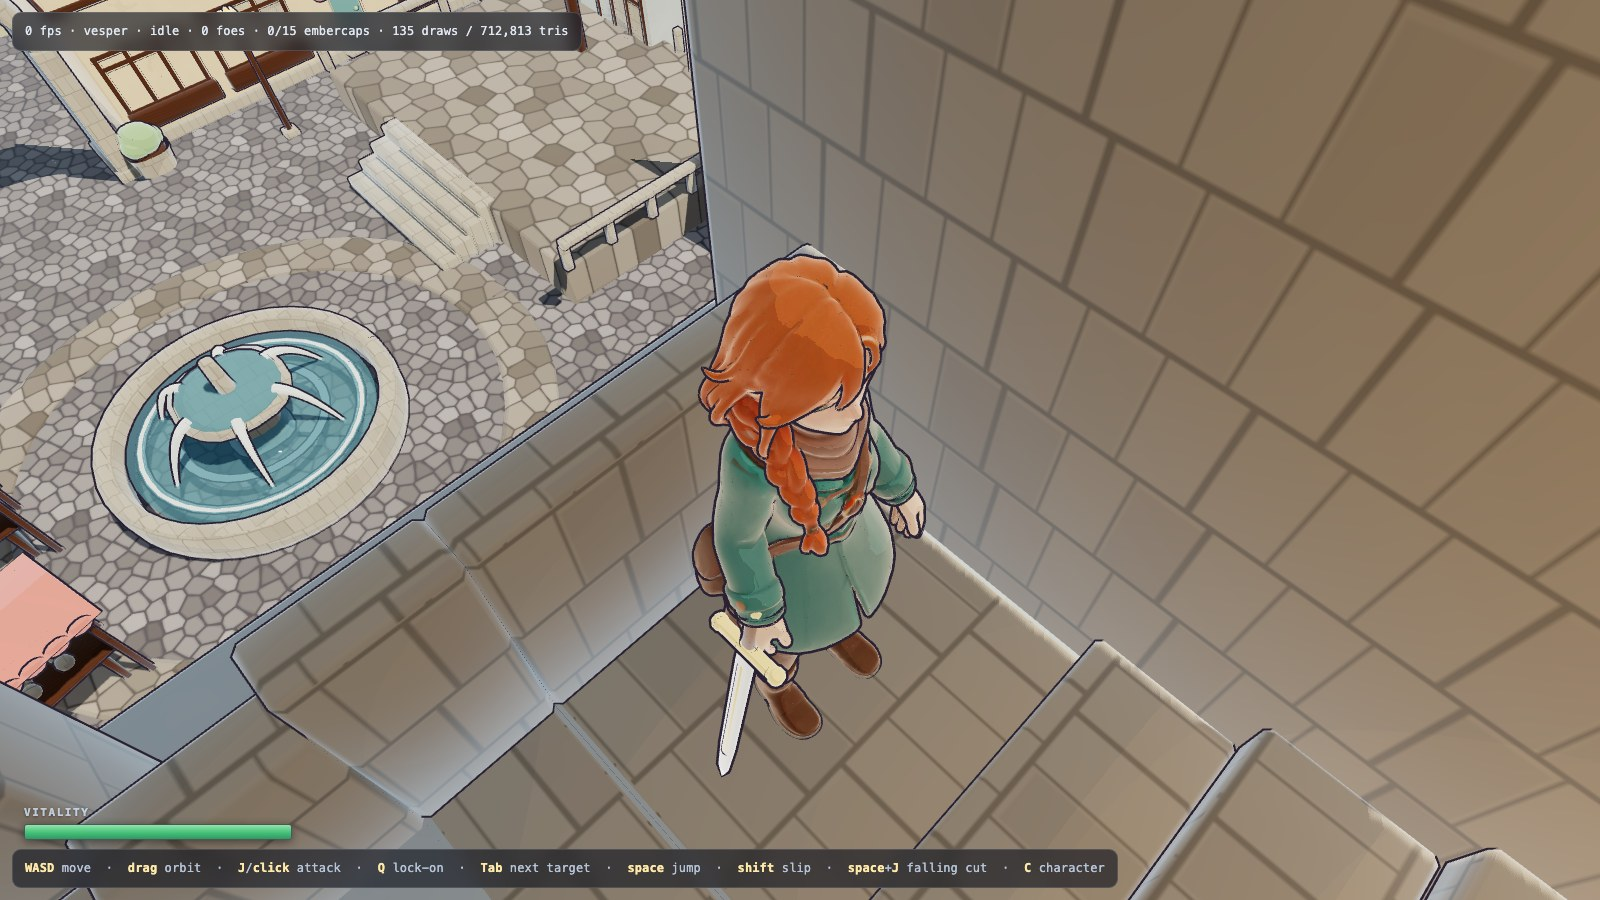
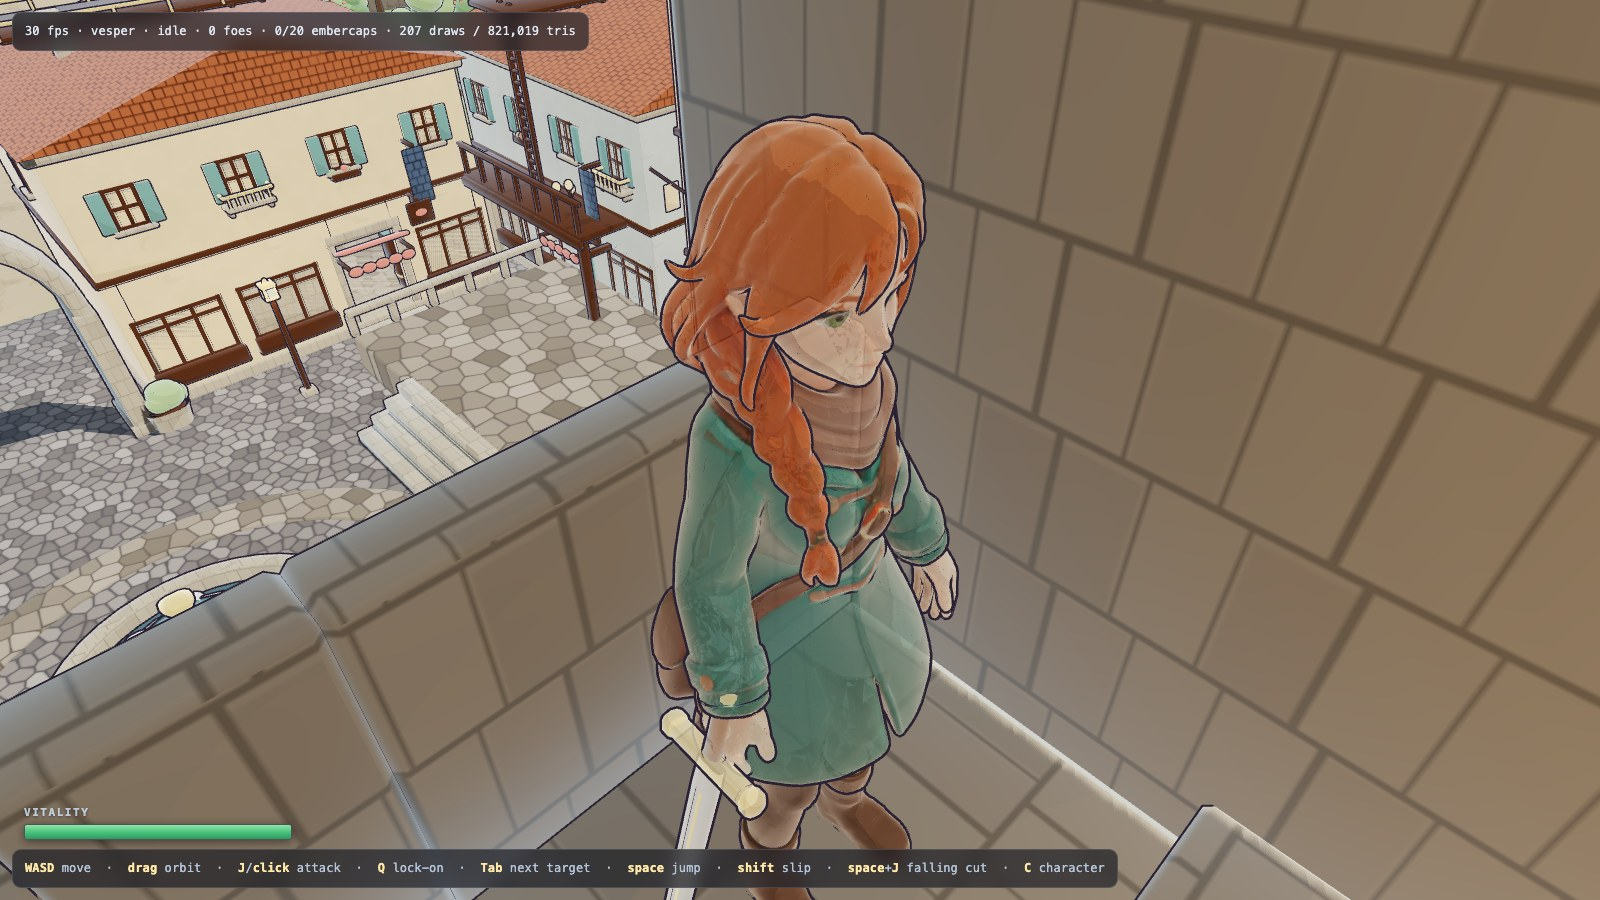
The indoor camera was lurching by metres, not sitting too close
A player's complaint: "the camera experience is pretty rough in indoor
spaces". My first instinct was that the rooms are too small and the boom
too short. Measured, that was wrong, and the measurement is the whole of
this change.

Dragging the camera through one slow revolution and recording the LARGEST
SINGLE-FRAME change in boom length:

                    before   after
    plaza (ref)      0.00     0.00
    belfry           6.30     0.20
    shop             3.53     0.24
    cellar           2.24     0.30
    tower room       1.21     0.12
    shop corner      1.10     0.30
    tower stair      0.43     0.15

Six metres in one frame. Between 4% and 11% of frames while turning moved
the camera more than a quarter of a metre. The mean boom indoors was
already 3-6 m -- the length was mostly fine. What was wrong is that the
solve returns a distance for THIS frame and it was applied as-is, so the
instant a boom stopped hitting something the camera teleported out to
full extension, and the instant it started again it snapped home.

Three fixes, in the order the measurements asked for them:

  1. SHORTEN AT ONCE, LENGTHEN SLOWLY. Shortening has to stay instant or
     the boom spends those frames inside a wall; lengthening has nothing
     to collide with on the way out. That alone took the cellar from 2.24
     to 0.30 and the shop from 3.53 to 1.36.

  2. EVERY INTERIOR GETS A CAMERA VOLUME. The tower's stairwell has had
[…]

diff --git a/public/js/main.js b/public/js/main.js
@@ -1033,17 +1033,29 @@ function groundAt(x, z, fromY) {
   return hit ? hit.point.y : null;
 }
 
-/** The open shaft the point is inside, or null. */
-function shaftAt(x, y, z) {
+/** The interior volume the point is inside, with how far in it is (0..1).
+ *
+ * The blend used to be VERTICAL ONLY, which suited a twenty-metre stairwell and
+ * nothing else: a room is 3 m tall and 9 m wide, so its transition happens as
+ * you walk THROUGH THE DOOR -- sideways. Blending on the nearest face in any
+ * axis handles both.
+ *
+ * `pad` is per-volume because a stairwell wants the player counted while she is
+ * on the stair AROUND the well, and a room does not: there, the box is exactly
+ * where she is.
+ */
+function volumeAt(x, y, z) {
+  let best = null;
   for (const s of SHAFTS) {
-    // the blend band reaches a metre past each end, so the test has to as well
-    if (y < s.y0 - 0.05 || y > s.y1 + 1.05) continue;
-    // generous horizontally: she stands on the stair AROUND the well, not in
-    // it, so the test is "is she in this shaft's tower", not "in its void"
-    if (Math.abs(x - s.x) > s.hx + 2.6 || Math.abs(z - s.z) > s.hz + 2.6) continue;
-    return s;
+    const pad = s.pad ?? 0;
+    const m = Math.min(y - s.y0, s.y1 - y,
+                       s.hx + pad - Math.abs(x - s.x),
+                       s.hz + pad - Math.abs(z - s.z));
+    if (m <= 0) continue;
+    const k = Math.min(1, m / 0.8);        // about a stride to cross fully in
+    if (!best || k > best.k) best = { s, k };
   }
-  return null;
+  return best;
 }
 
 /** Try to move by (dx, dz).  Returns true if the hero actually moved. */
@@ -1066,6 +1078,11 @@ function tryMove(dx, dz) {
 // ------------------------------------------------------------------ camera
 
 const cam = { az: Math.PI, polar: 1.22, dist: 5.4, autoDelay: 0 };
+// THE BOOM'S ACTUAL LENGTH, smoothed. See the note where it is applied.
+let camBoom = 5.4;
+// last frame's camera position, for the indoor ease. See where it is used.
+const camPrev = new THREE.Vector3();
+let camPrevOk = false;
 const camTarget = new THREE.Vector3(0, 1.18, 7);
 const camWant = new THREE.Vector3();
 let dragging = false;
@@ -1941,7 +1958,26 @@ const LOCK_POLAR = 1.06;
   // The floor has to be SMALL.  An alley is 1.75 m wide, so a camera shoved
   // sideways has under 0.9 m before it is inside a facade; a 1.1 m minimum put
   // it through the wall and filled the screen with outline colour.
-  const d = Math.max(0.45, Math.min(hitD, groundD) - 0.25);
+  //
+  // SHORTEN AT ONCE, LENGTHEN SLOWLY -- and this is the whole of what made the
+  // camera feel rough indoors.
+  //
+  // The solve above returns a length for THIS frame and it used to be applied
+  // as-is, so the moment a boom stopped hitting something the camera teleported
+  // out to full extension. Measured by dragging the camera through one slow
+  // revolution and recording the largest single-frame change: 0.00 m standing
+  // in the plaza, 2.24 m in the cellar, 3.53 m in the shop, and 6.30 m in the
+  // belfry -- where rotating past a pier hands the ray open sky. Between 4% and
+  // 11% of frames moved the camera more than a quarter of a metre.
+  //
+  // Shortening has to stay instant: a boom that eases INTO its new length is a
+  // boom that spends those frames inside a wall. Lengthening does not -- there
+  // is nothing to collide with on the way out -- so it eases, and the lunge
+  // goes away without the clipping coming back.
+  const want = Math.max(0.45, Math.min(hitD, groundD) - 0.25);
+  camBoom = want < camBoom ? want
+                           : camBoom + (want - camBoom) * Math.min(1, dt * 3.2);
+  const d = camBoom;
   camera.position.copy(camTarget).addScaledVector(camWant, d);
 
   // A STAIRWELL IS THE ONE SHAPE THIS SOLVE CANNOT DO.
@@ -1960,15 +1996,13 @@ const LOCK_POLAR = 1.06;
   // than hunt for air, put the camera in the volume the builder has PROMISED is
   // clear. The boom keeps the length and pitch the player chose; only its
   // horizontal position is confined, so turning the camera still turns it.
-  const shaft = shaftAt(camTarget.x, camTarget.y, camTarget.z);
-  if (shaft) {
-    // BLENDED IN OVER A METRE at each end of the shaft, because the two solves
-    // put the camera in genuinely different places and swapping between them on
-    // one frame is a cut. `k` is how far into the shaft she is.
-    const k = Math.min(1, (camTarget.y - shaft.y0) / 1.0,
-                          (shaft.y1 - camTarget.y) / 1.0);
-    if (k > 0) {
-      _o.copy(camTarget).addScaledVector(camWant, cam.dist);
+  // BLENDED, because the two solves put the camera in genuinely different
+  // places and swapping between them on one frame is a cut.
+  const vol = volumeAt(camTarget.x, camTarget.y, camTarget.z);
+  if (vol) {
+    const shaft = vol.s, k = vol.k;
+    {
+      _o.copy(camTarget).addScaledVector(camWant, Math.max(camBoom, cam.dist * 0.55));
       _o.x = THREE.MathUtils.clamp(_o.x, shaft.x - shaft.hx, shaft.x + shaft.hx);
       _o.z = THREE.MathUtils.clamp(_o.z, shaft.z - shaft.hz, shaft.z + shaft.hz);
       // never below the tread she is standing on, and never so far above it
@@ -1979,7 +2013,21 @@ const LOCK_POLAR = 1.06;
       const horiz = Math.hypot(_o.x - camTarget.x, _o.z - camTarget.z);
       _o.y = THREE.MathUtils.clamp(_o.y, camTarget.y - 0.30,
                                    camTarget.y + 1.15 * horiz + 0.35);
+      // AND UNDER THE VOLUME'S OWN CEILING. `y1` was being used to decide
+      // whether the player is in the volume and then never applied to the
+      // camera, so in the belfry the pitch cap let the boom climb to 23.98 m
+      // against a roof that starts at 22.48 -- the whole frame came back flat
+      // outline colour, twice, and I blamed the corner piers the first time.
+      _o.y = Math.min(_o.y, shaft.y1);
       camera.position.lerp(_o, k);
+      // AND EASE OVER TIME, which is only safe in here. Clamping into a box
+      // makes the camera slide along an edge, and near a CORNER a small turn
+      // moves it fast: measured in the shop's back corner, one frame of
+      // rotation walked it 1.06 m while the middle of the same room managed
+      // 0.42. Outdoors this would be unsafe -- a camera that lags its solve is
+      // a camera inside a wall for those frames -- but the builder has promised
+      // this volume is empty, so there is nothing to lag into.
+      if (camPrevOk) camera.position.lerp(camPrev, Math.exp(-13 * dt) * k);
     }
   }
 
@@ -1996,6 +2044,9 @@ const LOCK_POLAR = 1.06;
   const fade = THREE.MathUtils.clamp(
     (camera.position.distanceTo(camTarget) - 0.75) / 0.85, 0, 1);
   if (cur) for (const m of cur.mats) { m.opacity = fade; m.visible = fade > 0.02; }
+
+  camPrev.copy(camera.position);
+  camPrevOk = true;
 
   const camGround = groundAt(camera.position.x, camera.position.z, camera.position.y);
   if (camGround !== null && camGround <= camTarget.y + 0.6
@@ -2180,6 +2231,8 @@ globalThis.__sim = ({ steps = 60, dt = 1 / 60, held = [], attack: doAttack = fal
   for (const k of held) keys.add(k);
   if (warp) {
     pos.set(warp[0], warp[1], warp[2]);
+    camBoom = cam.dist;          // a teleport is not a camera move: do not ease
+    camPrevOk = false;
     const g = groundAt(pos.x, pos.z, pos.y + 4);
     if (g !== null) pos.y = g;
     vy = 0; grounded = true; landing = false;

diff --git a/tools/arch_lib.py b/tools/arch_lib.py
@@ -29,6 +29,13 @@ ROOM_WALL = 0.34        # wall thickness where a building is hollow
 ROOM_DOOR = 0.85        # half-width of an interior doorway
 ROOM_DOOR_H = 2.45      # its head height above the ground-floor level
 ROOM_FLOOR = 0.32       # interior floor level: the top of the plinth course
+ROOM_PAD = 0.75         # how far outside a room's CAMERA box the player may be
+                        # and still be treated as fully indoors. The box is
+                        # inset from the walls so the camera never touches one,
+                        # which leaves a band where she is in the room and the
+                        # camera is only half-confined -- measured, that band
+                        # cost 1.11 m of single-frame lurch in a shop corner
+                        # while the middle of the same room managed 0.42.
 GROUND_H = 3.45         # ground floor is taller -- shopfronts need the room
 
 
@@ -152,10 +159,16 @@ class Town:
         """
         self.solids.append((cx, cy, hx, hy, math.radians(yaw), top, base))
 
-    def shaft(self, cx, cy, hx, hy, z0, z1):
-        """An open vertical volume the camera can be placed inside. See the
-        note on `self.shafts`."""
-        self.shafts.append((cx, cy, hx, hy, z0, z1))
+    def shaft(self, cx, cy, hx, hy, z0, z1, pad=0.0):
+        """A volume the camera may be placed inside. See the note on
+        `self.shafts`.
+
+        `pad` is how far OUTSIDE the box the player may be and still count as
+        being in this space. A stairwell needs it: the camera belongs in the
+        well down the middle and the player is always on the stair around it.
+        A room does not -- the box IS where the player is.
+        """
+        self.shafts.append((cx, cy, hx, hy, z0, z1, pad))
 
     def platform(self, cx, cy, hx, hy, top):
         """A surface ABOVE the analytic ground that the player can stand on.
@@ -434,6 +447,12 @@ def cellar(t, hx0, hx1, hy0, hy1, floor_z=-3.0, ceil_z=-0.62):
         out.append(box(nm, (cx, cy, 0.26), (ex, ey, 0.30), M["stone"],
                        bevel=0.04, seg=1))
         t.solid(cx, cy, ex, ey, top=0.56)
+
+    # the room is the camera's too: without this the boom snapped 2.24 m in a
+    # single frame as you turned, because the only thing stopping it was a wall
+    t.shaft((rx0 + rx1) / 2, (ry0 + ry1) / 2,
+            (rx1 - rx0) / 2 - 0.5, (ry1 - ry0) / 2 - 0.5,
+            floor_z - 0.2, ceil_z - 0.25, pad=ROOM_PAD)
 
     # what is down here: stores, a lamp, and something worth the trip
     for bx, by in ((rx0 + 0.9, ry0 + 0.9), (rx0 + 1.7, ry0 + 1.0),
@@ -1517,6 +1536,11 @@ def building(t, cx, cy, w, d, storeys=2, yaw=0.0, plaster="plaster_a",
         put(door_x, -(iy + d / 2) / 2, ROOM_DOOR, th / 2 + 0.06, gz1,
             ROOM_FLOOR + ROOM_DOOR_H)
         t.platform(cx, cy, ix - 0.05, iy - 0.05, ROOM_FLOOR)
+        # and the room is where the camera lives while you are in it: 3.53 m of
+        # single-frame lurch without this, because rotating toward the doorway
+        # let the boom out into the square and rotating back snapped it home
+        t.shaft(cx, cy, ix - 0.55, iy - 0.55, ROOM_FLOOR - 0.2, gz1 - 0.30,
+                pad=ROOM_PAD)
         t.platform(cx + door_x * c_ + (d / 2 + 0.34) * s_,
                    cy + door_x * s_ - (d / 2 + 0.34) * c_,
                    ROOM_DOOR + 0.22, 0.24, 0.16)
@@ -1845,7 +1869,24 @@ def belltower(t, cx, cy, base=2.35, storeys=4, yaw=0.0, hollow=True):
         # for the boom to go out of and the belfry is open sky, and confining
         # the camera in either one takes a working 4.8 m shot down to 1.6.
         t.shaft(cx, cy, inner - fw - 0.14, inner - fw - 0.14,
-                floor_z + 0.5, belfry_top - 1.0)
+                floor_z + 0.5, belfry_top - 1.0, pad=2.6)
+        # THE GROUND ROOM AND THE BELFRY ARE ROOMS, not shaft, and they were
+        # getting no help at all. Measured by dragging the camera through one
+        # revolution: the worst single-frame move was 1.21 m in the ground room
+        # and 6.30 m in the belfry, where turning past a pier hands the boom
+        # open sky and it teleports out to full extension. The stair, which has
+        # had a volume all along, was the best indoor spot in the build at 0.43.
+        t.shaft(cx, cy, inner - 0.45, inner - 0.45, floor_z - 0.2, floor_z + 3.3,
+                pad=ROOM_PAD)
+        # THE BELFRY'S CLEAR VOLUME IS SMALLER THAN IT LOOKS, in both axes, and
+        # I got it wrong twice by eye before measuring. Horizontally it stops
+        # inside the corner PIERS (bw - 0.22, half-width 0.22), not at the
+        # parapet. Vertically it stops under the LINTEL that rings the pier
+        # tops at top + 2.38 with a 0.16 half-height -- so the ceiling is
+        # top + 2.22, not the cap at top + 2.54. A camera pinned at the old
+        # y1 sat inside that beam and every frame came back flat outline colour.
+        t.shaft(cx, cy, bw - 0.78, bw - 0.78,
+                belfry_top - 0.3, top + 2.10, pad=ROOM_PAD)
 
         # THE BELL ROPE, and it is the best thing in the tower for its cost.
         #

diff --git a/tools/town_build.py b/tools/town_build.py
@@ -468,8 +468,9 @@ def main():
                      for x, y, z, k in t.lights]
     man["shafts"] = [{"x": round(x, 3), "z": round(-y, 3),
                       "hx": round(hx, 3), "hz": round(hy, 3),
-                      "y0": round(z0, 3), "y1": round(z1, 3)}
-                     for x, y, hx, hy, z0, z1 in t.shafts]
+                      "y0": round(z0, 3), "y1": round(z1, 3),
+                      "pad": round(pad, 3)}
+                     for x, y, hx, hy, z0, z1, pad in t.shafts]
     man["bounds"] = PLAZA
     mpath = os.path.splitext(out)[0] + ".manifest.json"
     with open(mpath, "w") as fh:
